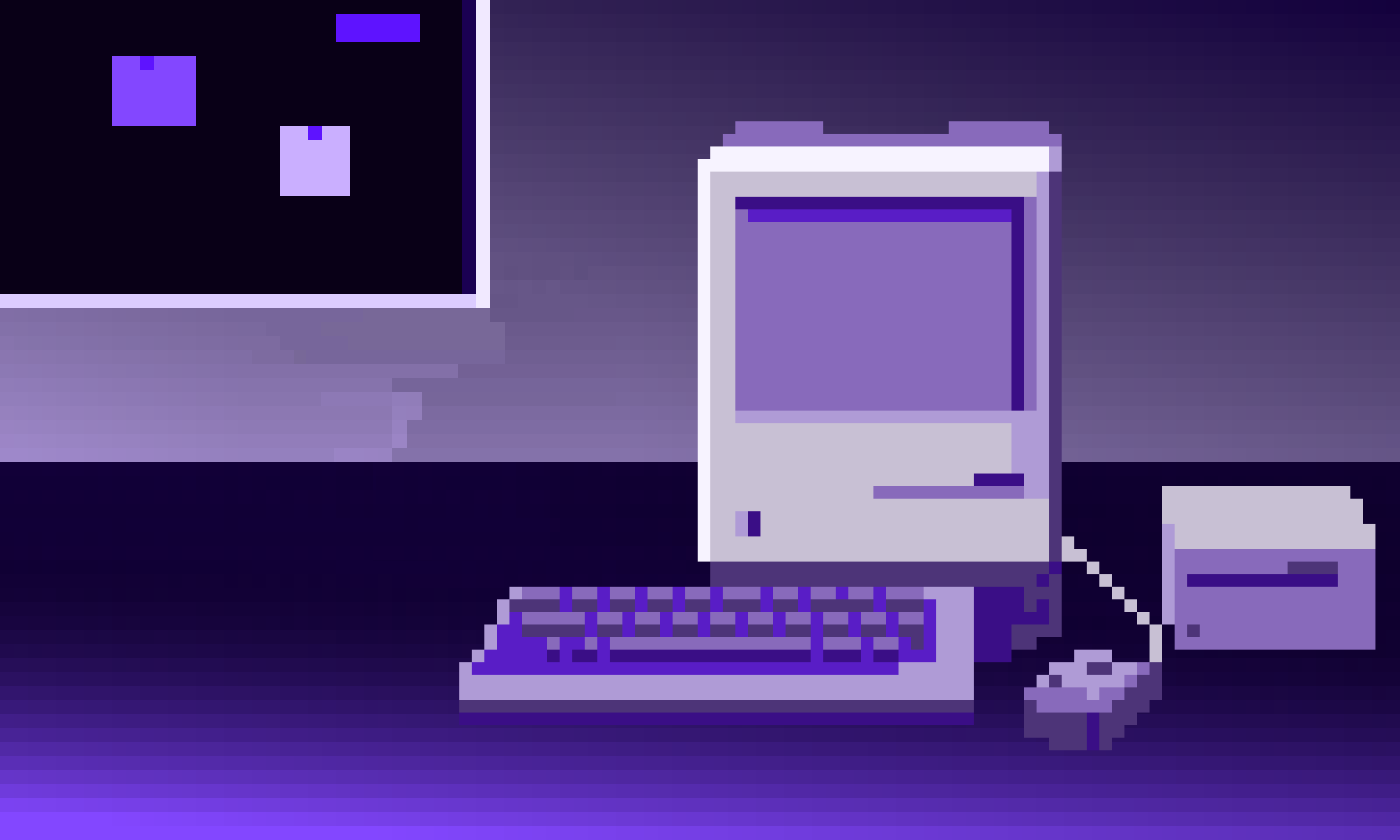
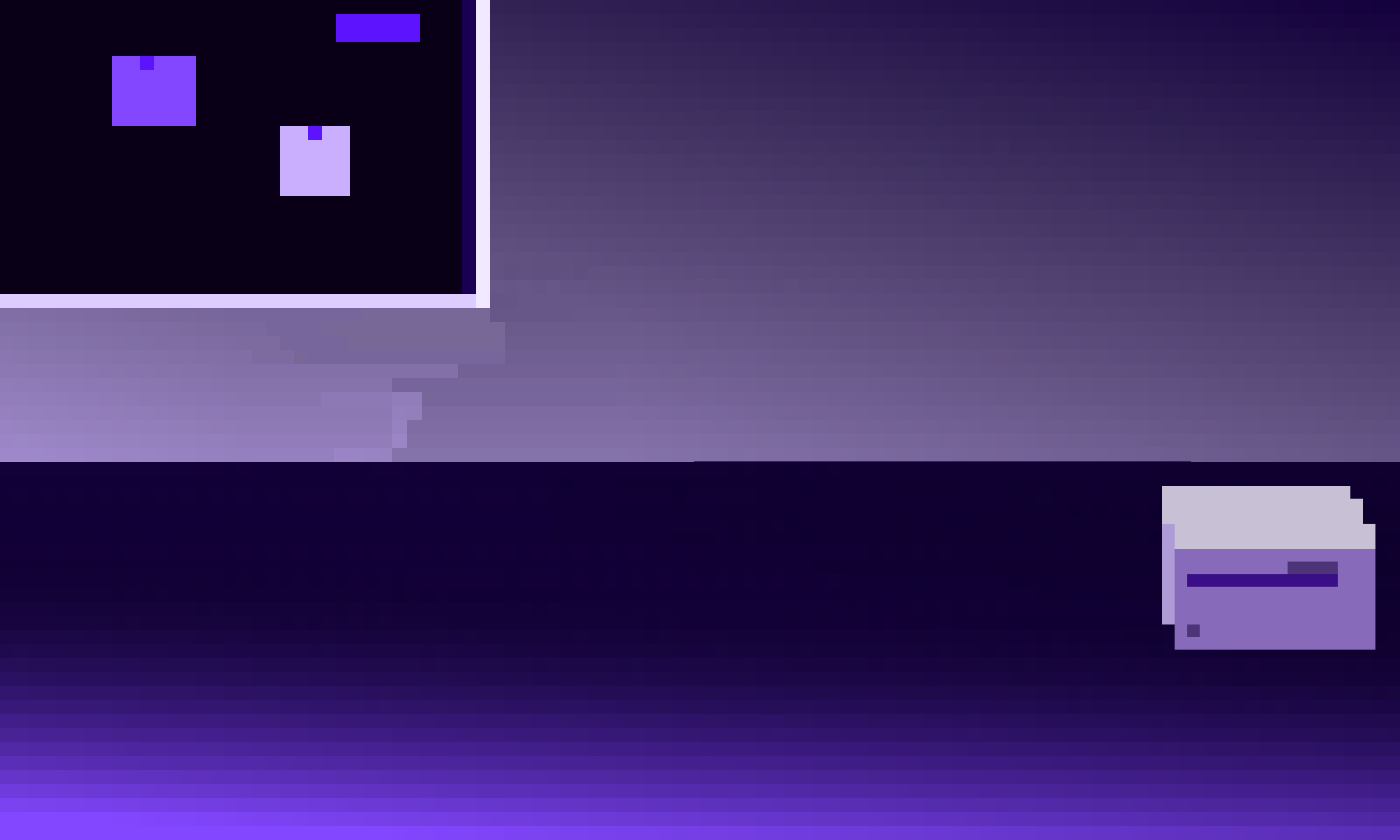
Add pc onHover highlighting

Changed region(s): [[0.3071, 0.1238, 0.8293, 0.8976]]

diff --git a/src/style.css b/src/style.css
@@ -48,6 +48,7 @@
 
 #board:hover {
   background-image: url("./assets/pics/boardOutline.png");
+  /* z-index: 1; */
 }
 
 .cup-wrapper {
@@ -78,7 +79,7 @@
   width: 26%;
   height: 36.667%;
   left: 19.1%;
-  top: 30.01%;
+  top: 30.02%;
 }
 
 #plant {
@@ -87,17 +88,37 @@
   z-index: 0;
 }
 
+.pc-wrapper {
+  position: absolute;
+  display: inline-flex;
+  /* border: 1px solid orangered; */
+  width: 52.21%;
+  height: 78.33%;
+  top: 12.5%;
+  left: 31.8%;
+}
+
+#pc {
+  background: url("./assets/pics/pc.png") no-repeat;
+  background-size: contain;
+}
+
+#pc:hover {
+  background-image: url(./assets/pics/pcOutline.png);
+}
+
 #ekranGif {
   position: absolute;
-  width: 20.6%;
-  left: 52.5%;
-  top: 23.5%;
+  width: 39.45%;
+  left: 39.7%;
+  top: 13.8%;
   cursor: pointer;
   height: auto;
   margin: 0px;
   padding: 0px;
   object-fit: contain;
   resize: horizontal;
+  z-index: 1;
 }
 
 

diff --git a/src/js/views/room.ts b/src/js/views/room.ts
@@ -26,10 +26,11 @@ export const Room = {
   html: `
   <div id="room" class="room-background">
     <a href="#board"><div id="board"></div></a>
-    <a href="#boot"><img id="ekranGif" src="./assets/pics/ekran.gif" class="undraggable"></a>
     <a target="_blank" rel="noopener noreferrer" href="https://sklep.uni.lodz.pl/">
     <div id="cup" class="cup-wrapper"></div></a>
     <div id="plant" class="plant-wrapper"></div>
+    <div id="pc" class="pc-wrapper"><a href="#boot"><img id="ekranGif" src=
+    "./assets/pics/ekran.gif" class="undraggable"></a></div>
   </div>`,
 
   audio: `<audio id="tlo" autoplay loop>
